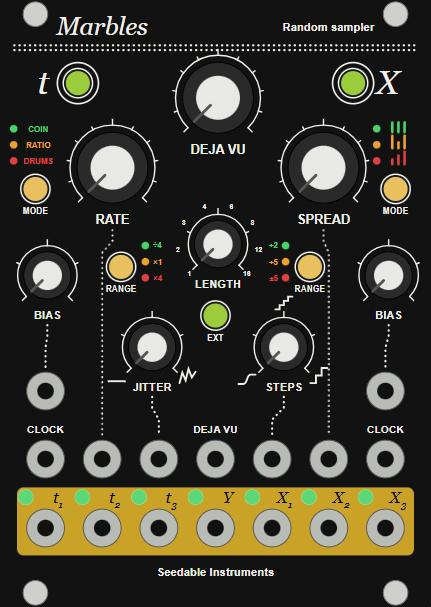
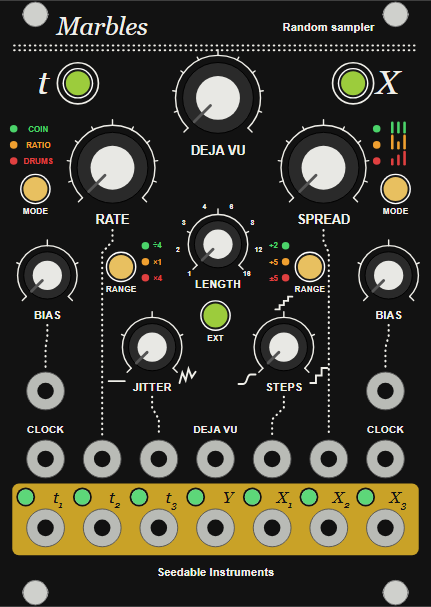
Marblesy panel PCB: copper band clears the holes through it
EasyEDA's DRC flagged the output band (copper fill) against the 14 slot
regions inside it: 7 output jacks and 7 output LEDs. The band and its
solder-mask opening now leave a 0.4 mm ring of masked board around each
of them, drawn as counter-clockwise circles in the fill's path list,
which EasyEDA combines with the nonzero rule. The band grows to 2.6 mm
from the panel sides and 0.8 mm upwards so the t1 LED's ring stays
inside it with 0.85 mm of gold around every ring. panel.band() is the
one definition the artwork SVG and the panel PCB share.

diff --git a/marbles/hardware/tools/panel_pcb.py b/marbles/hardware/tools/panel_pcb.py
@@ -11,7 +11,9 @@ layer: x to the right, y up, origin at the panel's bottom-left corner.
                  dots as small rings, X-mode bar icons, button rings
   copper band    a copper fill on the top layer under a solder-mask opening of
                  the same shape (bare ENIG gold); the output labels sit on it
-                 as silkscreen
+                 as silkscreen. Both leave a 0.4 mm ring of masked board
+                 around each hole through the band (DRC: copper 0.3 mm from
+                 a slot region)
 
 Text uses EasyEDA's default stroke font; centring is estimated, so nudge a
 label in the editor if it sits off. Nothing electrical: the panel has no
@@ -197,9 +199,11 @@ class PanelBoard:
         for jack in ("J1", "J12"):
             self.text(pos[jack][2], pos[jack][3] - A["nut"] - 1.6, "CLOCK", 2.2)
         self.text(pos["J5"][2], pos["J5"][3] - A["nut"] - 1.6, "DEJA VU", 2.2)
-        # copper band and the output labels on it
+        # copper band, cleared around the holes through it, and the output labels on it
         jy = pos["J9"][3]
-        self.band(3.6, jy - 8.6, W - 7.2, 14.4, 1.4)
+        (x, y, w, h, rx), cuts = panel.band(pos)
+        self.band(x, y, w, h, rx)
+        self.cuts = [(*self.P(cx, cy), r) for cx, cy, r in cuts]
         for ref in panel.OUTPUTS:
             x = pos[ref][2]
             main, sub = panel.OUT_LABELS[ref]
@@ -218,10 +222,18 @@ class PanelBoard:
                              "PREFERENCE", "LAYER_PHYS", "RULE", "PANELIZE"):
                 d.add(h["type"], h["id"], p)
 
-        def fill(layer, path):
+        def fill(layer, *paths):
             d.add("FILL", d.nid(), {"partitionId": "", "groupId": 0, "netName": "", "layerId": layer, "width": 1,
-                                    "fillStyle": "SOLID", "path": [path], "locked": False, "zIndex": d.zi(),
+                                    "fillStyle": "SOLID", "path": list(paths), "locked": False, "zIndex": d.zi(),
                                     "isBridgingCopper": False, "networkList": [], "refs": []})
+
+        def cutout(x, y, r):
+            """A counter-clockwise circle. EasyEDA combines a fill's paths with the nonzero rule, so inside
+            the clockwise outline drawn by rounded() it is a hole."""
+            path = [mil(x + r), mil(y)]
+            for px, py in ((x, y + r), (x - r, y), (x, y - r), (x + r, y)):
+                path += ["ARC", 90, mil(px), mil(py)]
+            return path
 
         def rounded(x, y, w, h, r):
             """Rounded rectangle from its top-left (y up) as lines and clockwise 90-degree arcs.
@@ -242,8 +254,8 @@ class PanelBoard:
         for x, y, w, h in self.slots:
             fill(12, rounded(x - w / 2, y + h / 2, w, h, h / 2))
         for x, y, w, h, rx in self.copper:        # (x, y) is the band's top-left in the PCB frame
-            for layer in (1, 5):                  # top copper, top solder mask opening
-                fill(layer, rounded(x, y, w, h, rx))
+            for layer in (1, 5):                  # top copper, top solder mask opening; mask stays on the clearances
+                fill(layer, rounded(x, y, w, h, rx), *(cutout(*c) for c in self.cuts))
         d.add("POLY", d.nid(), {"partitionId": "", "groupId": 0, "netName": "", "layerId": 11, "width": 10,
                                 "path": ["R", 0, mil(self.H), mil(self.W), mil(self.H), 0, 0], "locked": False,
                                 "zIndex": d.zi(), "polyType": "BOARD_OUTLINE"})
@@ -277,6 +289,9 @@ class PanelBoard:
 
         for x, y, w, h, rx in self.copper:
             dr.rounded_rectangle([P(x, y), P(x + w, y - h)], radius=rx * scale, fill="#c9a227")
+        for x, y, r in self.cuts:
+            X, Y = P(x, y)
+            dr.ellipse([X - r * scale, Y - r * scale, X + r * scale, Y + r * scale], fill="#141414")
         for pts, w in self.silk_lines:
             dr.line([P(*p) for p in pts], fill="#f0efe9", width=max(1, int(w * scale)))
         for p0, sweep, p1, w, (cx, cy, r, b0, b1) in getattr(self, "arcs", []):   # panel frame, from 12 o'clock

diff --git a/marbles/hardware/tools/panel.py b/marbles/hardware/tools/panel.py
@@ -133,11 +133,28 @@ OUTPUTS = ["J9", "J10", "J11", "J16", "J13", "J14", "J15"]
 OUT_LABELS = {"J9": ("t", "1"), "J10": ("t", "2"), "J11": ("t", "3"), "J16": ("Y", ""), "J13": ("X", "1"),
               "J14": ("X", "2"), "J15": ("X", "3")}
 KNOB_TO_JACK = {"RV1": "J2", "RV3": "J4", "RV8": "J8", "RV6": "J6", "RV2": "J3", "RV7": "J7"}   # dotted guides
+BAND_CLEAR = 0.4      # bare board (under black mask) between the copper band and a hole through it; DRC asks 0.3
 # labels printed beside the bipolar buttons, in press order (green, orange, red)
 MODE_LABELS = {"SW2": ("COIN", "RATIO", "DRUMS"), "SW3": ("\u00f74", "\u00d71", "\u00d74"),
                "SW6": ("+2", "+5", "\u00b15")}
 LABEL_COLOURS = ("#4bd36a", "#f0a030", "#e04040")
 LENGTHS = ("1", "2", "3", "4", "6", "8", "12", "16")
+
+
+def band(pos):
+    """The bare-copper output band, (x, y, w, h, rx) from its top-left in the panel frame, and the
+    holes through it as clearance circles (x, y, r): copper and mask opening both leave them out."""
+    jy = pos["J9"][3]
+    # 2.6 from the sides and 9.4 above the jacks, so the LED clearances leave 0.85 mm of copper outside them
+    x, y, w, h = 2.6, jy - 9.4, PANEL_W - 5.2, 15.2
+    cuts = []
+    for kind, label, hx, hy in pos.values():
+        r = HOLE[kind] / 2 + BAND_CLEAR
+        if x - r < hx < x + w + r and y - r < hy < y + h + r:
+            if not (x + r < hx < x + w - r and y + r < hy < y + h - r):
+                raise ValueError(f"the hole at ({hx:.2f}, {hy:.2f}) crosses the edge of the output band")
+            cuts.append((hx, hy, r))
+    return (x, y, w, h, 1.4), cuts
 
 
 def _arc(cx, cy, r, a0, a1):
@@ -263,7 +280,10 @@ def write_artwork(feats, path):
     # -- bare copper: the output band with its labels knocked out
     s.append('<g id="copper">')
     jy = pos["J9"][3]
-    s.append(f'<rect x="3.6" y="{jy - 8.6:.2f}" width="{W - 7.2:.2f}" height="14.4" rx="1.4" class="copper"/>')
+    (bx, by, bw, bh, brx), cuts = band(pos)
+    s.append(f'<rect x="{bx}" y="{by:.2f}" width="{bw:.2f}" height="{bh}" rx="{brx}" class="copper"/>')
+    for x, y, r in cuts:                  # copper clearance around the holes, under black mask
+        s.append(f'<circle cx="{x:.2f}" cy="{y:.2f}" r="{r:.2f}" class="cu-text"/>')
     for ref in OUTPUTS:
         x = pos[ref][2]
         main, sub = OUT_LABELS[ref]
